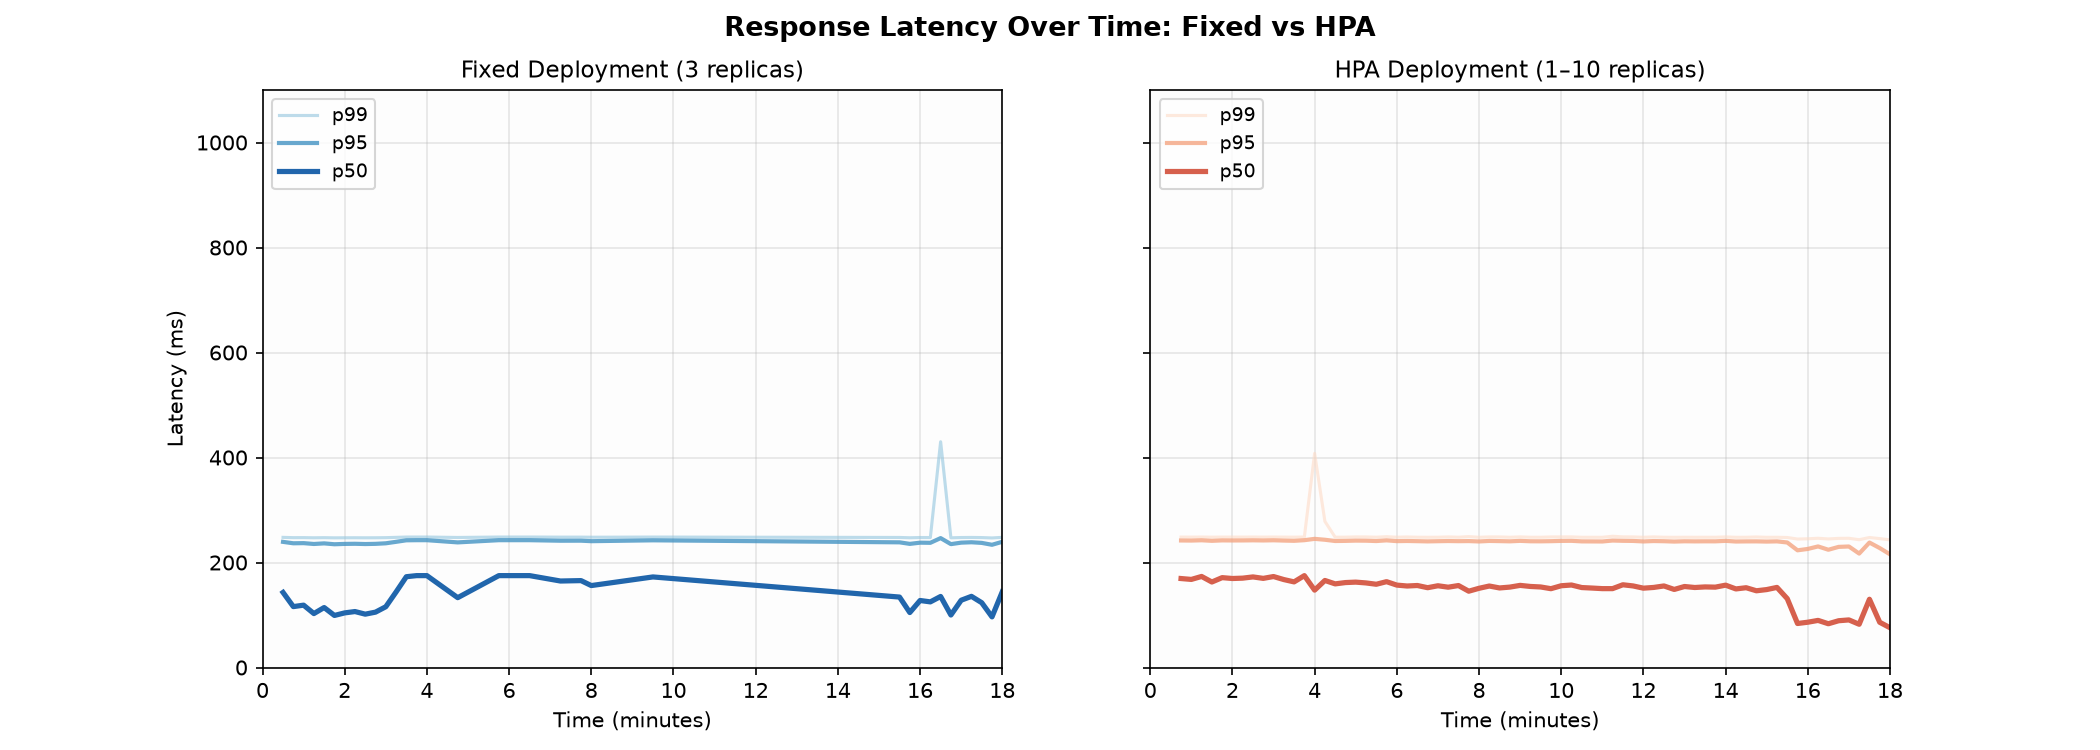
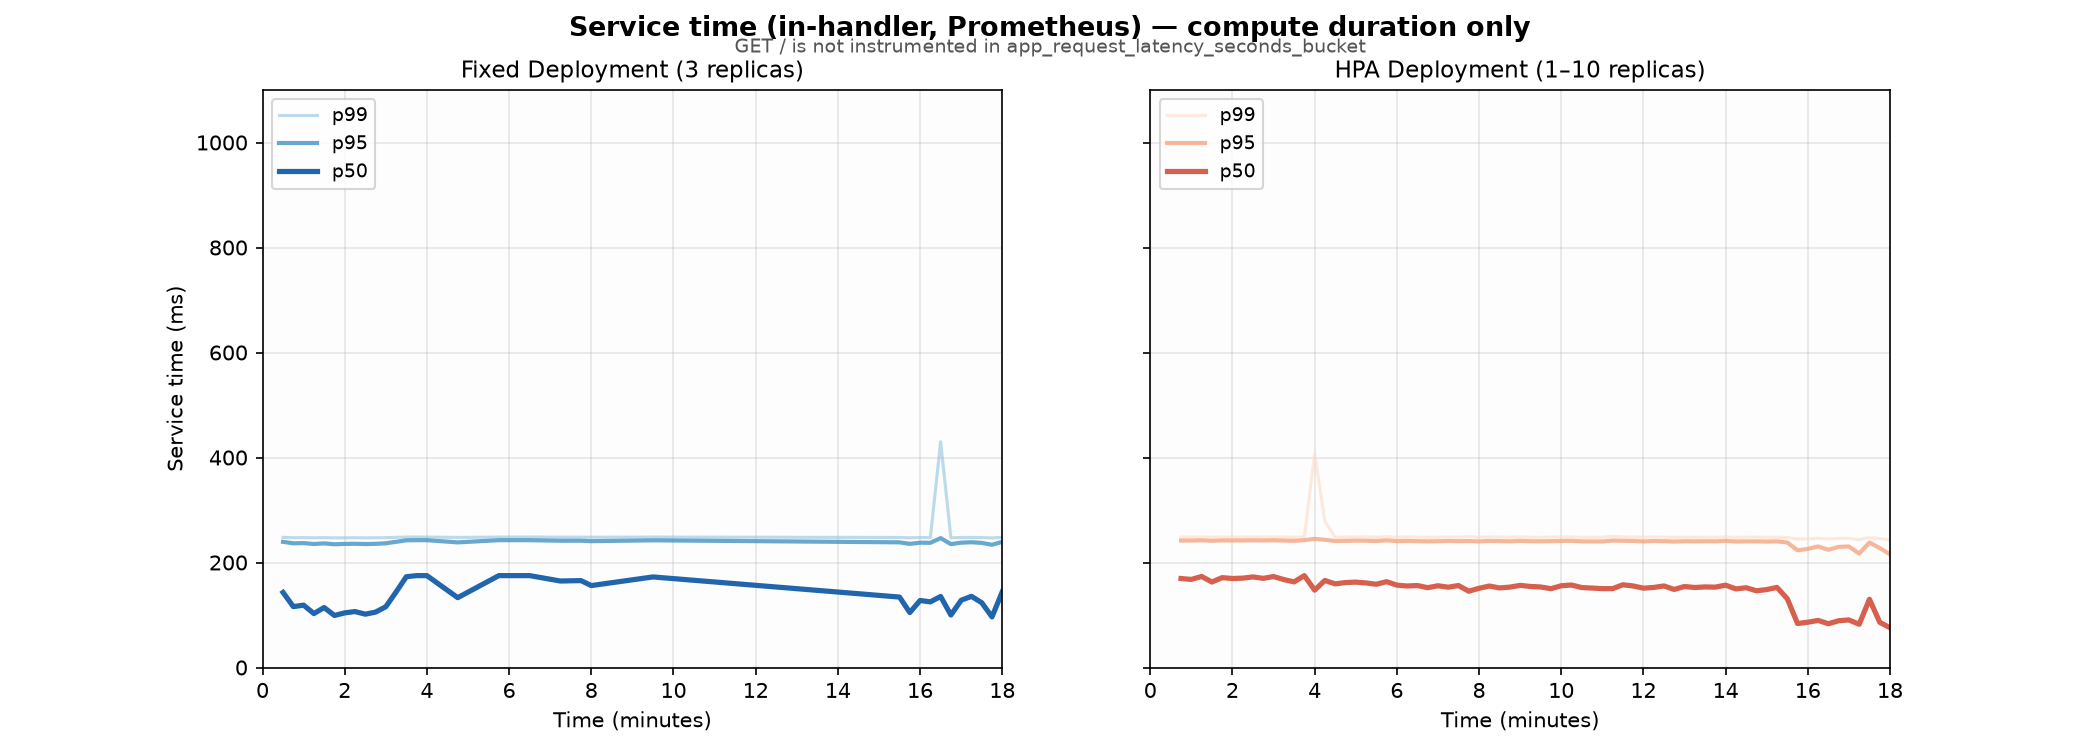
a0-5: regenerate figures with client-observed latency

Changed region(s): [[0.2786, 0.0, 0.7429, 0.092], [0.0619, 0.3987, 0.0929, 0.6133]]

diff --git a/analysis/analyze_results.py b/analysis/analyze_results.py
@@ -220,6 +220,12 @@ def assert_no_run_level_percentile_from_history(source: str) -> None:
         sys.exit(1)
 
 
+def _history_percentile_value(raw: str | None) -> float:
+    if raw is None or raw == "" or raw == "N/A":
+        return float("nan")
+    return float(raw)
+
+
 def load_locust_stats_history(path: str) -> list[dict]:
     rows: list[dict] = []
     with open(path, newline="") as handle:
@@ -229,9 +235,9 @@ def load_locust_stats_history(path: str) -> list[dict]:
             rows.append(
                 {
                     "timestamp": int(row["Timestamp"]),
-                    "p50_ms": float(row["50%"]),
-                    "p95_ms": float(row["95%"]),
-                    "p99_ms": float(row["99%"]),
+                    "p50_ms": _history_percentile_value(row.get("50%")),
+                    "p95_ms": _history_percentile_value(row.get("95%")),
+                    "p99_ms": _history_percentile_value(row.get("99%")),
                     "percentile_source": HISTORY_PERCENTILE_SOURCE,
                 }
             )
